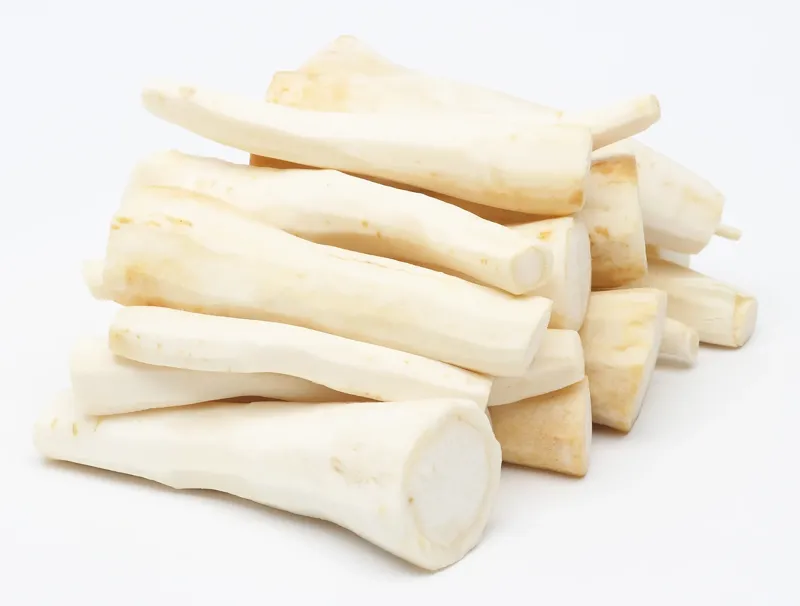
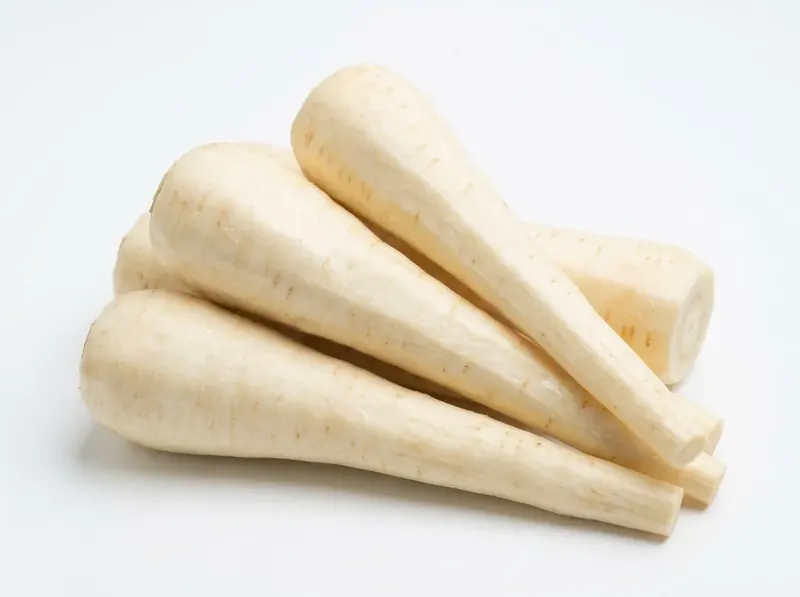
Photos: peeled parsley root product tile
Claude-Session: https://claude.ai/code/session_01FXJ2rbHnbSjxptSmxWtMMX

diff --git a/zamow/sw.js b/zamow/sw.js
@@ -1,5 +1,5 @@
 // Offline cache for the ordering app. Bump VERSION when files change.
-const VERSION = "sylwia-zamow-v26";
+const VERSION = "sylwia-zamow-v27";
 const ASSETS = ["./", "index.html", "app.css", "app.js", "products.js", "manifest.webmanifest",
   "icons/icon-192.png", "../img/favicon.svg",
   "../fonts/jost-latin.woff2", "../fonts/jost-latin-ext.woff2"];
